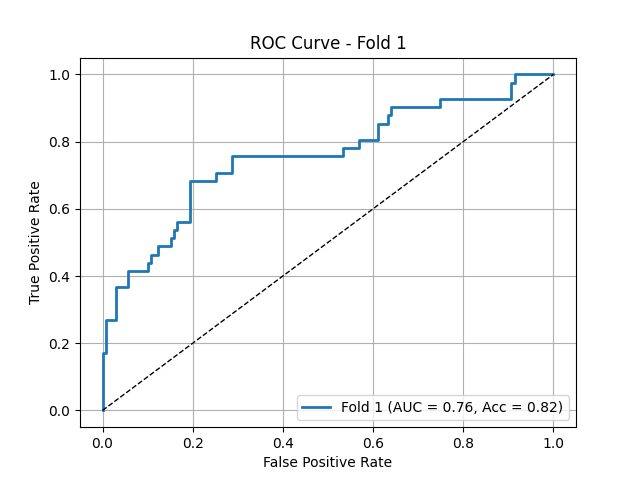
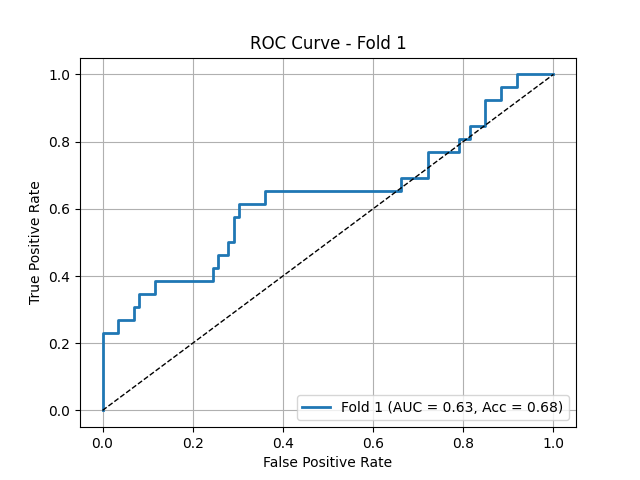
harse augmentation 5

diff --git a/dataset_washu2.py b/dataset_washu2.py
@@ -108,7 +108,7 @@ train_transform = A.Compose([
     A.ShiftScaleRotate(shift_limit=0.01, scale_limit=0.05, rotate_limit=10, border_mode=0, value=0, p=0.5),
 
     # Nonlinear distortions
-    A.ElasticTransform(alpha=10, sigma=120, alpha_affine=5, p=0.5),
+    A.ElasticTransform(alpha=30, sigma=300, alpha_affine=5, p=0.9),
     A.GridDistortion(distort_limit=0.3, p=0.5),
     
     # Intensity-related augmentations
